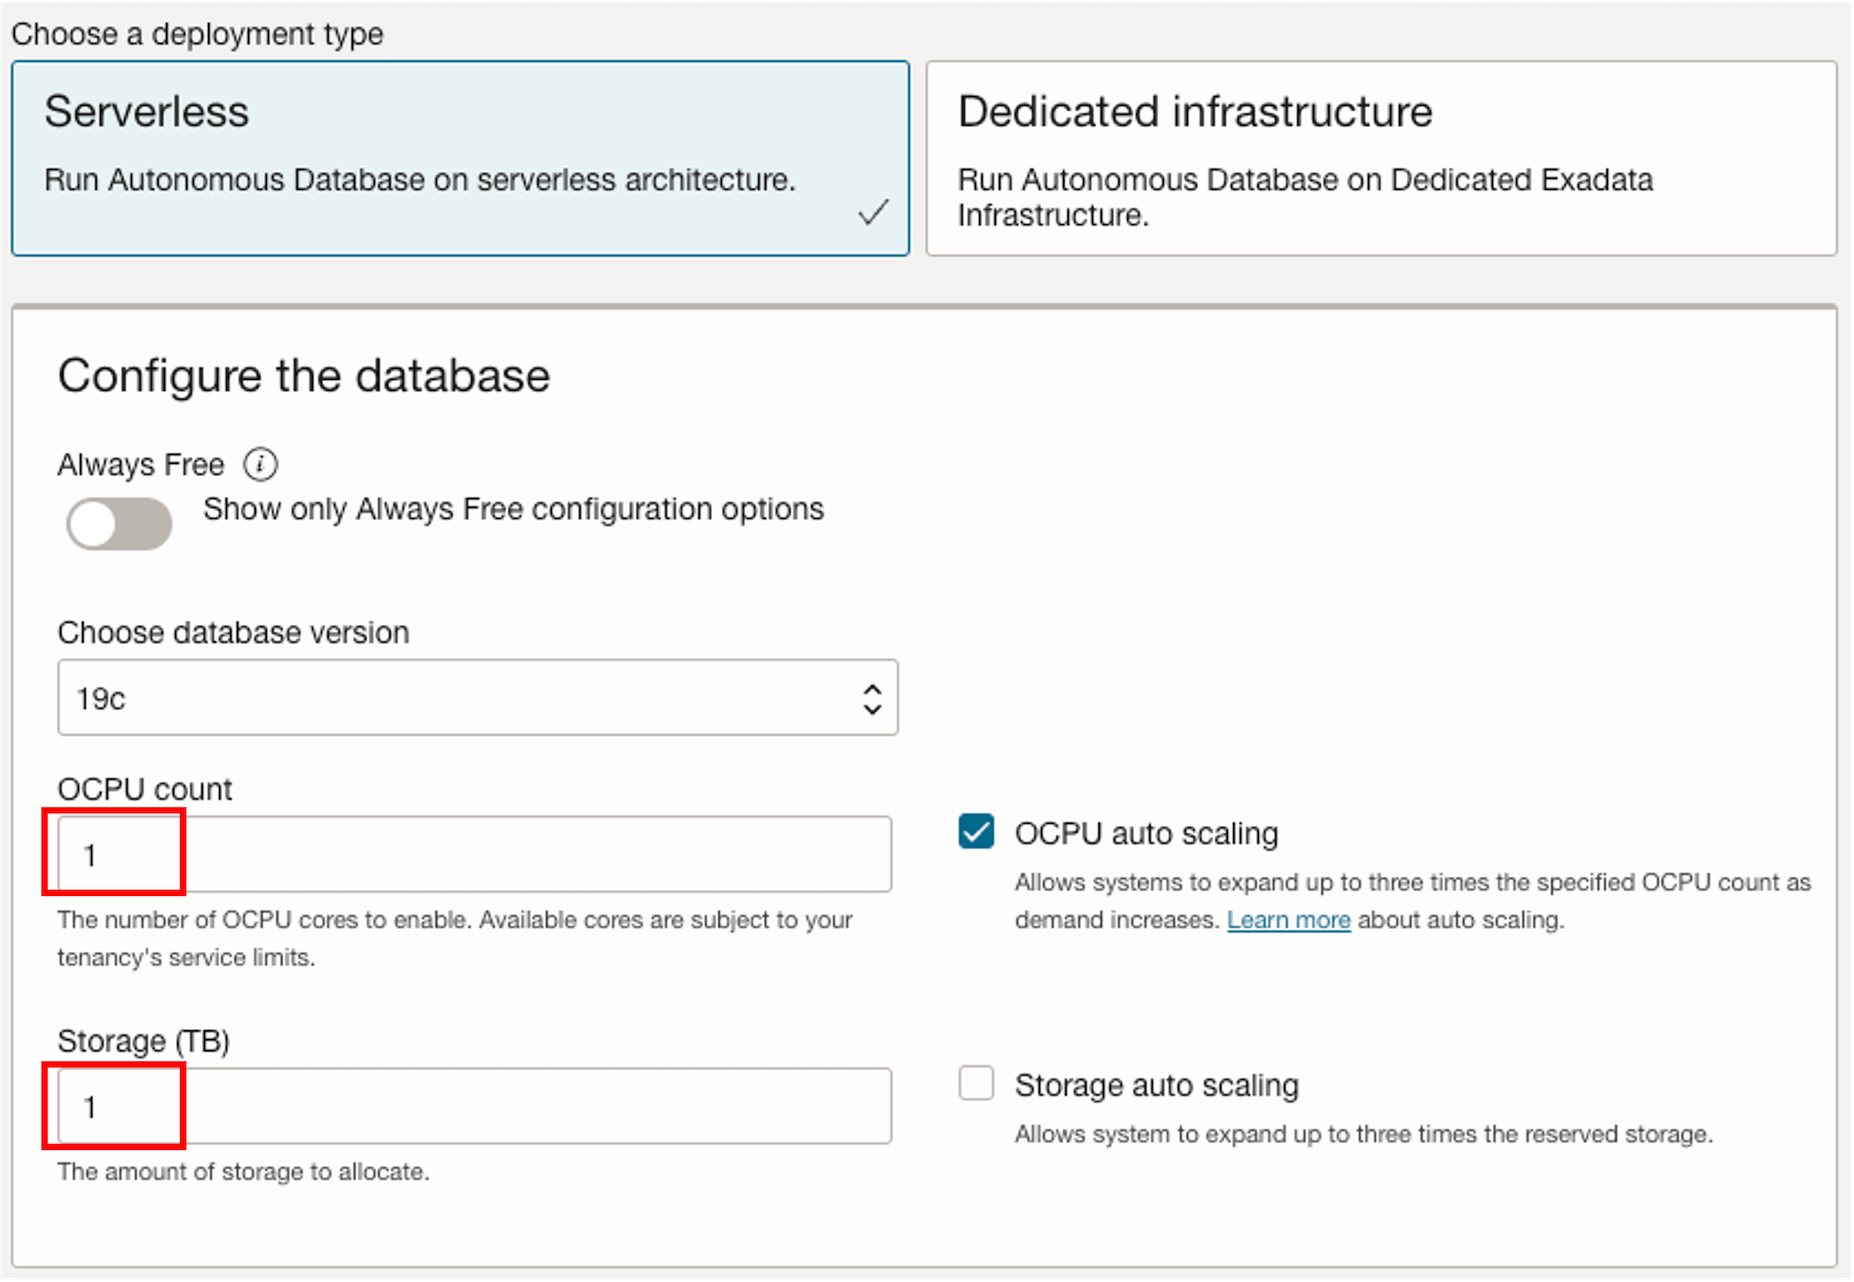
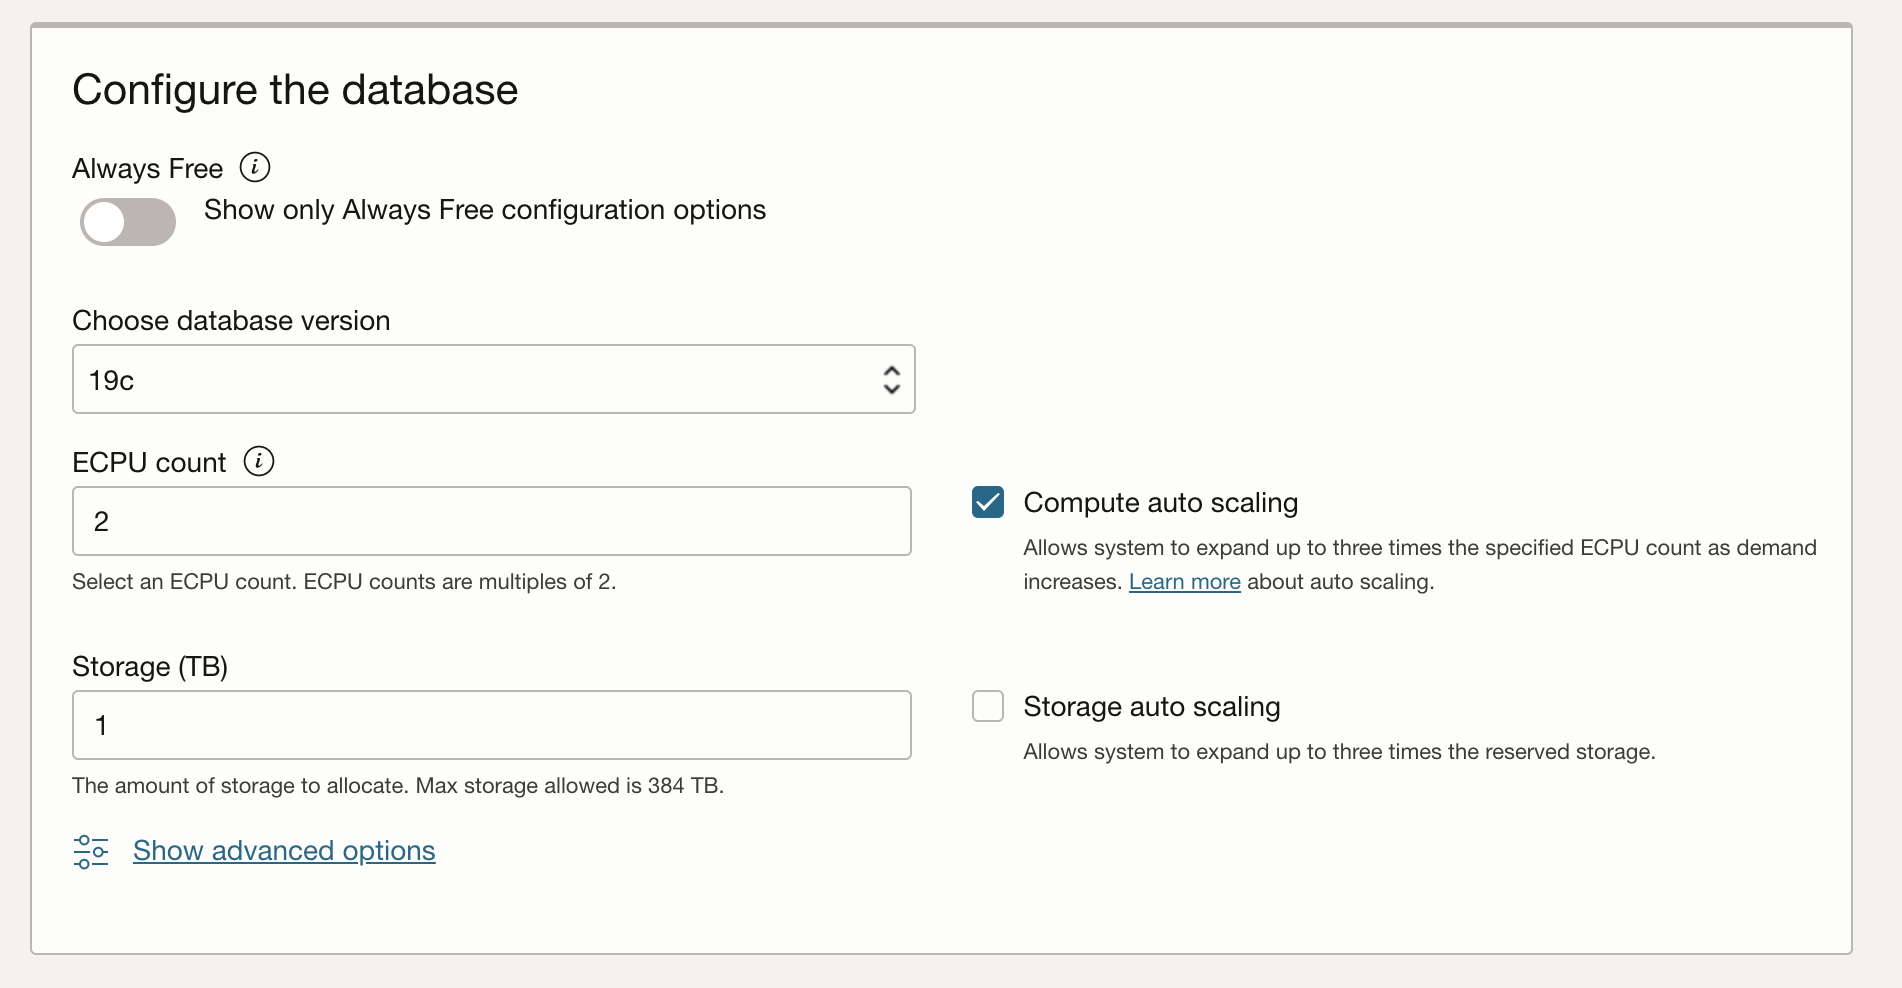
ECPU update (#203)
* apex github translation sync

* Update of markdown files for updated/new translations

* Update of markdown files for updated/new translations

* Update of markdown files for updated/new translations

* Delete test3.txt

* Update of markdown files for updated/new translations

* Update test3.md

* Update of markdown files for updated/new translations

* Updating common lab screenshots for Redwood UI

The common labs are:
Create Custom OCI Compute Image for Marketplace Publishing
Publish Compute Images for Marketplace
Setup Graphical Remote Desktop

* removed test files

* ECPU update

diff --git a/building-blocks/tasks/adb/provision-body.md b/building-blocks/tasks/adb/provision-body.md
@@ -1,7 +1,7 @@
 <!--
     {
         "name":"Provision Autonomous Database",
-        "description":"Provision an ADB. Use the `variables.json` file to update provisioning parameters, including database name, OCPUs, storage and more."
+        "description":"Provision an ADB. Use the `variables.json` file to update provisioning parameters, including database name, ECPUs, storage and more."
     }
 -->
 1. Click **Create Autonomous Database** to start the instance creation process.
@@ -51,11 +51,11 @@
 
 6. Configure the database:
 
-    - **Always Free** - If your Cloud Account is an Always Free account, you can select this option to create an always free autonomous database. An always free database comes with 1 OCPU and 20 GB of storage. For this lab, we recommend you leave Always Free unchecked.
+    - **Always Free** - If your Cloud Account is an Always Free account, you can select this option to create an always free autonomous database. An always free database comes with at least 2 ECPUs and 20 GB of storage. For this lab, we recommend you leave Always Free unchecked.
     - **Choose database version** - Select **19c** as the database version.
-    - **OCPU count** - Number of OCPUs for your service. For this lab, specify **[](var:db_ocpu)**. If you choose an Always Free database, it comes with 1 OCPU.
+    - **ECPU count** - Number of ECPUs for your service. For this lab, specify **[](var:db_ocpu)**. If you choose an Always Free database, it comes with at least 2 ECPUs.
     - **Storage (TB)** - Select your storage capacity in terabytes. For this lab, specify **[](var:db_storage)** of storage. Or, if you choose an Always Free database, it comes with 20 GB of storage.
-    - **OCPU auto Scaling** - For this lab, keep auto scaling enabled, to enable the system to automatically use up to three times more OCPU and IO resources to meet workload demand.
+    - **ECPU auto Scaling** - For this lab, keep auto scaling enabled, to enable the system to automatically use up to three times more ECPU and IO resources to meet workload demand.
     - **Storage auto scaling** - For this lab, there is no need to enable storage auto scaling, which would allow the system to expand up to three times the reserved storage.
 
     > **Note:** You cannot scale up/down an Always Free autonomous database.
@@ -103,6 +103,6 @@
 
     ![Database Provisioning message.](./images/adb-create-provisioning-message.png "Provisioning")
 
-    In a few minutes, the state will turn from Provisioning to Available. At this point, your Autonomous Database instance is ready to use! Have a look at your instance's details - including its name, database version, OCPU count, and storage size.
+    In a few minutes, the state will turn from Provisioning to Available. At this point, your Autonomous Database instance is ready to use! Have a look at your instance's details - including its name, database version, ECPU count, and storage size.
 
     ![Database complete message.](./images/adb-create-complete-message.png "Complete")
